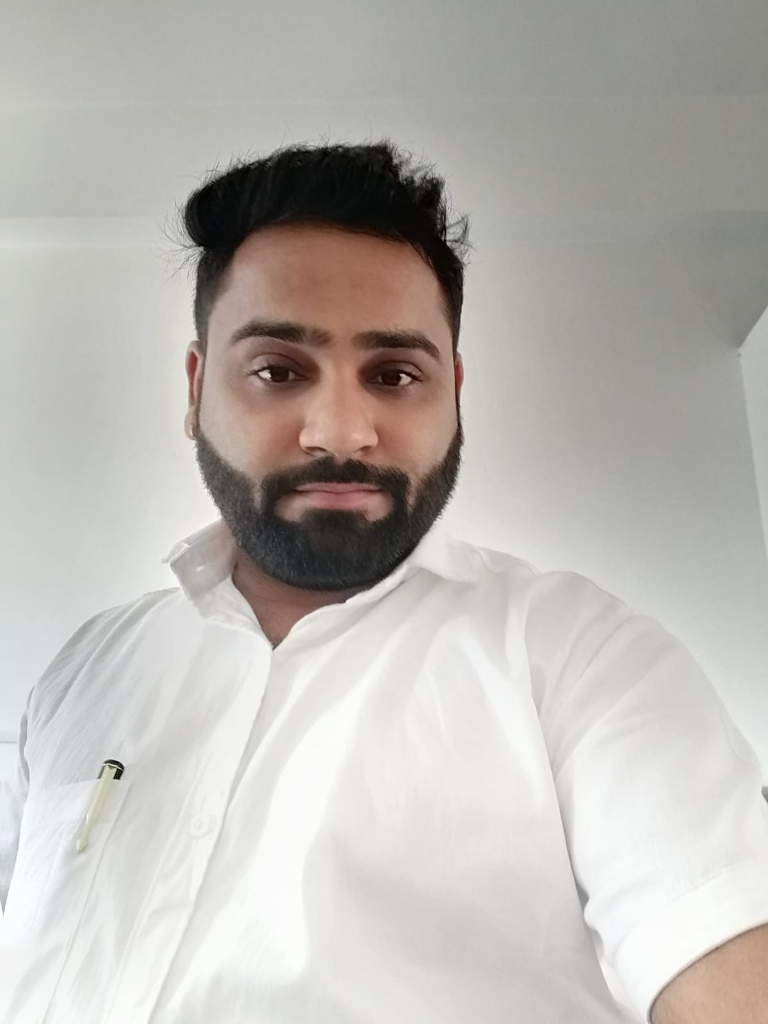
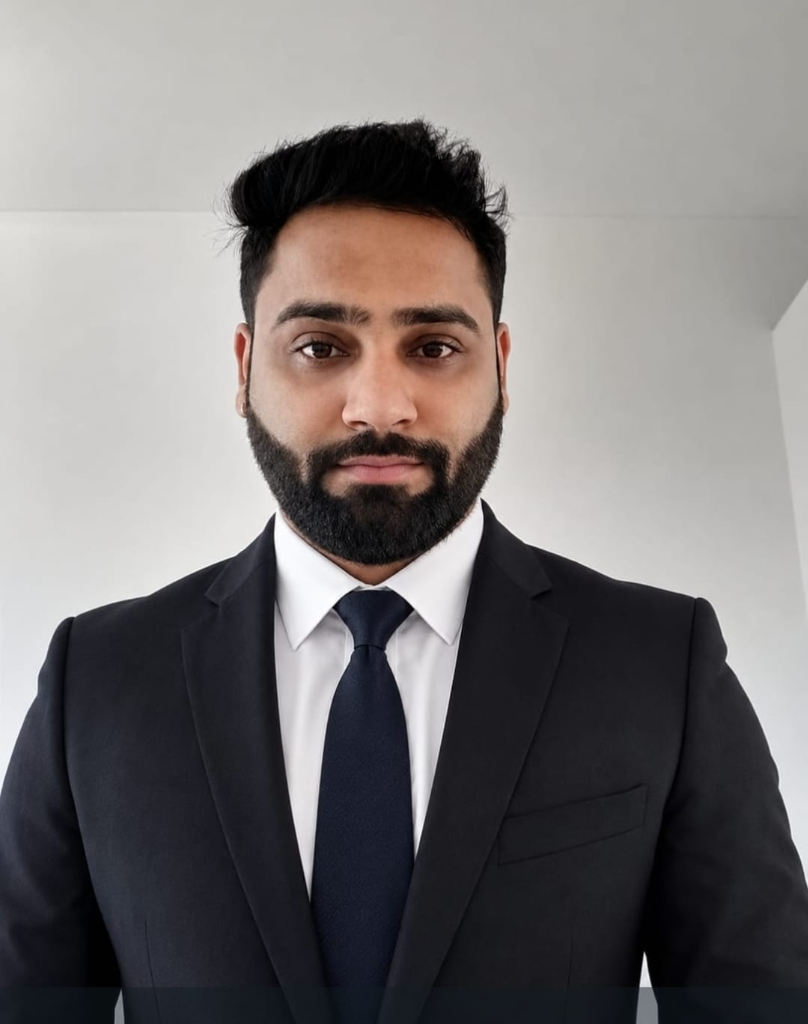
Update Founder Dhrumit Darji portrait with executive suit image

diff --git a/src/app/page.tsx b/src/app/page.tsx
@@ -465,7 +465,7 @@ export default function Home() {
             {/* Founder Portrait cutout overlay */}
             <div className="hidden sm:block absolute right-2 bottom-0 z-20 w-52 md:w-60 h-[390px]">
               <Image
-                src="/assets/founder.png"
+                src="/assets/founder_suit.png"
                 alt="Dhrumit Darji - Founder Only Space Realty"
                 fill
                 className="object-contain object-bottom filter drop-shadow-[0_15px_25px_rgba(0,0,0,0.9)]"
@@ -572,7 +572,7 @@ export default function Home() {
                 <div className="flex flex-col sm:flex-row items-start sm:items-center gap-5 border-b border-neutral-800 pb-6">
                   <div className="relative w-24 h-32 rounded-2xl overflow-hidden border-2 border-gold/60 shadow-xl bg-gradient-to-b from-[#2A2A2A] to-[#121212] shrink-0 group">
                     <Image
-                      src="/assets/founder.png"
+                      src="/assets/founder_suit.png"
                       alt="Dhrumit Darji - Founder & Chief Real Estate Consultant"
                       fill
                       className="object-cover object-top transition-transform duration-500 group-hover:scale-105"

diff --git a/src/app/about/page.tsx b/src/app/about/page.tsx
@@ -48,7 +48,7 @@ export default function AboutPage() {
               <div className="flex flex-col sm:flex-row items-center gap-5 border-b border-neutral-800 pb-6">
                 <div className="relative w-28 h-36 rounded-2xl overflow-hidden border-2 border-gold/60 shadow-xl bg-gradient-to-b from-[#2A2A2A] to-[#121212] shrink-0">
                   <Image
-                    src="/assets/founder.png"
+                    src="/assets/founder_suit.png"
                     alt="Dhrumit Darji - Founder & Chief Consultant"
                     fill
                     className="object-cover object-top transition-transform duration-500 group-hover:scale-105"